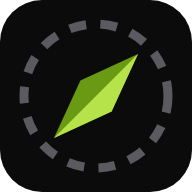
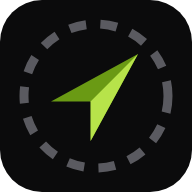
fix: restaura recorte vazado 3D da bússola centralizado no eixo de 45 graus

diff --git a/index.html b/index.html
@@ -14,15 +14,15 @@
   <meta name="twitter:card" content="summary_large_image" />
   <meta name="twitter:title" content="Rumos — Roadmap e plano de estudos em tecnologia" />
   <meta name="twitter:description" content="Combine carreiras, fundamentos e linguagens em uma trilha do básico ao avançado, com projetos práticos e agenda semanal. Sem cadastro." />
-  <meta property="og:image" content="https://eduardonobilioni.github.io/rumos-guia-de-estudos/assets/brand/og.png?v=3" />
+  <meta property="og:image" content="https://eduardonobilioni.github.io/rumos-guia-de-estudos/assets/brand/og.png?v=4" />
   <meta property="og:image:type" content="image/png" />
   <meta property="og:image:width" content="1200" />
   <meta property="og:image:height" content="630" />
   <meta property="og:image:alt" content="Rumos — Planeje seus estudos em tecnologia com clareza." />
-  <meta name="twitter:image" content="https://eduardonobilioni.github.io/rumos-guia-de-estudos/assets/brand/og.png?v=3" />
-  <link rel="icon" href="assets/brand/favicon.svg?v=3" type="image/svg+xml" />
-  <link rel="icon" href="assets/brand/favicon-32.png?v=3" sizes="32x32" type="image/png" />
-  <link rel="apple-touch-icon" href="assets/brand/apple-touch-icon.png?v=3" />
+  <meta name="twitter:image" content="https://eduardonobilioni.github.io/rumos-guia-de-estudos/assets/brand/og.png?v=4" />
+  <link rel="icon" href="assets/brand/favicon.svg?v=4" type="image/svg+xml" />
+  <link rel="icon" href="assets/brand/favicon-32.png?v=4" sizes="32x32" type="image/png" />
+  <link rel="apple-touch-icon" href="assets/brand/apple-touch-icon.png?v=4" />
   <link rel="manifest" href="manifest.webmanifest" />
   <meta name="theme-color" content="#0B0B0C" />
   <link rel="preload" href="assets/fonts/plus-jakarta-sans-400.woff2" as="font" type="font/woff2" crossorigin />

diff --git a/js/files.js b/js/files.js
@@ -280,26 +280,26 @@ const FONT_UI = '"Plus Jakarta Sans", system-ui, -apple-system, sans-serif';
 function brandMarkPdf() {
   return [
     '0.416 0.604 0.078 rg',
-    '48 784 m 54.25 797.75 l 68 804 l 61.75 790.25 l h f',
+    '68 804 m 47.5 793 l 56.8 793 l 56.8 783.7 l h f',
     '0.718 0.890 0.290 rg',
-    '48 784 m 68 804 l 61.75 790.25 l h f',
+    '68 804 m 56.8 793 l 56.8 783.7 l h f',
   ].join('\n');
 }
 
 function drawBrandMark(ctx, x, y, size) {
   ctx.fillStyle = '#6A9A14';
   ctx.beginPath();
-  ctx.moveTo(x + size * 0.25, y + size * 0.75);
-  ctx.lineTo(x + size * 0.40625, y + size * 0.40625);
-  ctx.lineTo(x + size * 0.75, y + size * 0.25);
-  ctx.lineTo(x + size * 0.59375, y + size * 0.59375);
+  ctx.moveTo(x + size * 0.75, y + size * 0.25);
+  ctx.lineTo(x + size * 0.234375, y + size * 0.53125);
+  ctx.lineTo(x + size * 0.46875, y + size * 0.53125);
+  ctx.lineTo(x + size * 0.46875, y + size * 0.765625);
   ctx.closePath();
   ctx.fill();
   ctx.fillStyle = '#B7E34A';
   ctx.beginPath();
-  ctx.moveTo(x + size * 0.25, y + size * 0.75);
-  ctx.lineTo(x + size * 0.75, y + size * 0.25);
-  ctx.lineTo(x + size * 0.59375, y + size * 0.59375);
+  ctx.moveTo(x + size * 0.75, y + size * 0.25);
+  ctx.lineTo(x + size * 0.46875, y + size * 0.53125);
+  ctx.lineTo(x + size * 0.46875, y + size * 0.765625);
   ctx.closePath();
   ctx.fill();
 }

diff --git a/js/ui/dom.js b/js/ui/dom.js
@@ -119,8 +119,8 @@ export function brandMark(animate = false) {
   return `<svg class="brand-mark" viewBox="0 0 32 32" fill="none" aria-hidden="true">
     <circle cx="16" cy="16" r="13.5" class="logo-ring" stroke-width="1.5" stroke-dasharray="3 2.5"></circle>
     <g class="${animate ? 'compass-needle' : ''}">
-      <path d="M8 24L13 13L24 8L19 19Z" class="logo-accent"></path>
-      <path d="M8 24L24 8L19 19Z" class="logo-primary"></path>
+      <path d="M24 8L7.5 17L15 17L15 24.5Z" class="logo-accent"></path>
+      <path d="M24 8L15 17L15 24.5Z" class="logo-primary"></path>
     </g>
   </svg>`;
 }

diff --git a/sw.js b/sw.js
@@ -1,4 +1,4 @@
-const CACHE = 'rumos-cache-v11';
+const CACHE = 'rumos-cache-v12';
 const PRECACHE = [
   './',
   './index.html',
